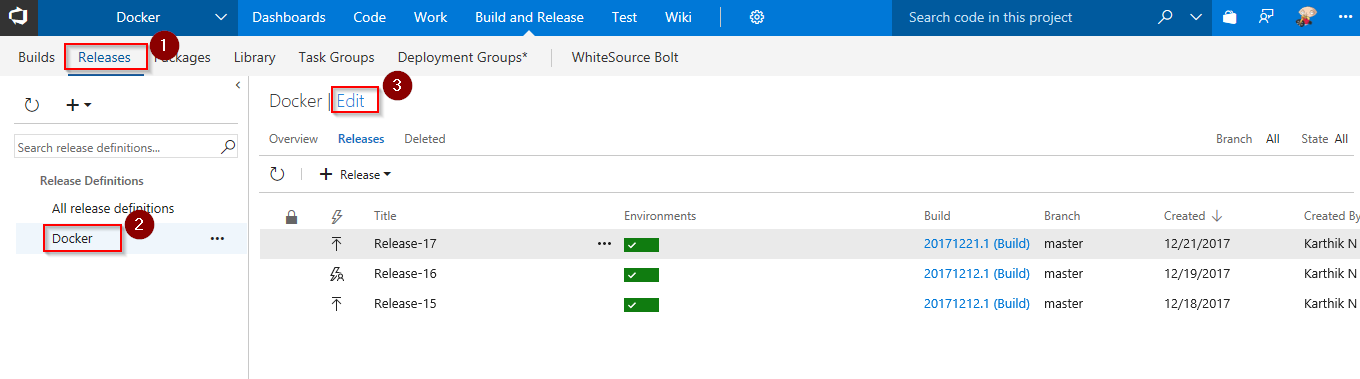
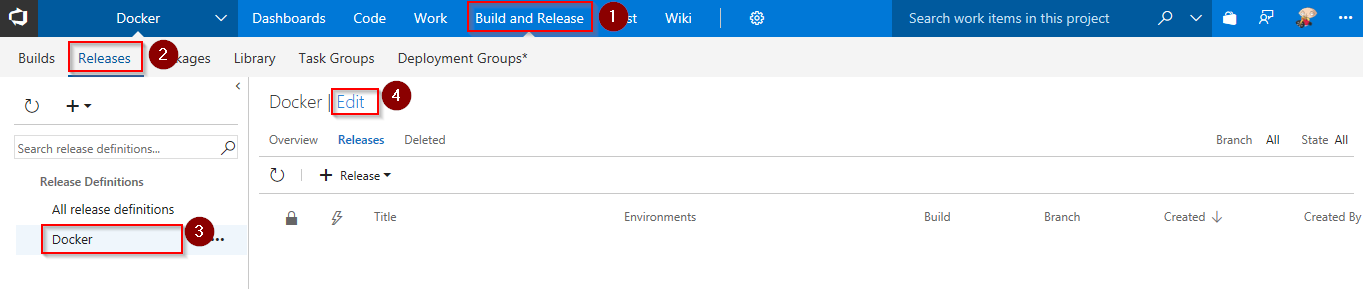
Updated content

diff --git a/docker/readme.md b/docker/readme.md
@@ -125,11 +125,28 @@ Since the connections are not established during project provisioning, we will m
 
  >Note : You will encounter an error - ***TFS.WebApi.Exception: Page not found*** for Azure tasks in the build/ release definition. This is due to a recent change in the VSTS Release Management API. While we are working on updating VSTS Demo Generator to resolve this issue, you can fix this by typing a random text in the Azure Subscription field and click the **Refresh** icon next to it. Once the field is refreshed, you can select the endpoint from the drop down.
 
-1. Go to **Builds** under **Build and Release** tab, **Edit** the build definition **Docker**.
+1. Go to **Releases** under **Build & Release** tab, **Edit** the release definition **Docker** and select **Tasks**.
+
+   <img src="images/release.png">
+   <br/>
+   <br/>
+   <img src="images/release_tasks.png">
+
+2. Update **Azure Subscription** from the dropdown. 
+
+    <img src="images/update_dbtask.png">
+
+3. Click on **Variables** section, update **ACR** and **SQLserver** with the details noted earlier while setting up the environment. Click **Save**. 
+
+    <img src="images/update_rdvariables.png">
+
+    >Note: **Database Name** is set to **mhcdb**, **Server Admin Login** is **sqladmin** and **Password** is **P2ssw0rd1234**.
+
+4. Go to **Builds** under **Build and Release** tab, **Edit** the build definition **Docker**.
 
    <img src="images/build.png">
 
-2. Click on **Process** section, select appropriate contents from dropdown under **Azure subscription** and **Azure Container Registry**. (use up down arrow to choose Azure Container Registry for the first time)
+5. Click on **Process** section, select appropriate contents from dropdown under **Azure subscription** and **Azure Container Registry**. (use up down arrow to choose Azure Container Registry for the first time)
 
    <img src="images/updateprocessbd.png">
 
@@ -168,36 +185,18 @@ Since the connections are not established during project provisioning, we will m
       <td> used to share the build artifacts </td>
    </tr>
    </table>
-3. Click **Save**.
 
-   <img src="images/savebd.png">
+6. Click **Save & queue**.
 
-4. Go to **Releases** under **Build & Release** tab, **Edit** the release definition **Docker** and select **Tasks**.
+   <img src="images/queuebd.png">
 
-   <img src="images/release.png">
-   <br/>
-   <br/>
-   <img src="images/release_tasks.png">
+7. Queue a build by clicking **Save & queue** in the pop-up window.
 
-5. Update **Azure Subscription** from the dropdown. 
+    <img src="images/queuebd2.png">
 
-    <img src="images/update_dbtask.png">
-
-6. Click on **Variables** section, update **ACR** and **SQLserver** with the details noted earlier while setting up the environment. Click **Save**. 
-
-    <img src="images/update_rdvariables.png">
-
-    >Note: **Database Name** is set to **mhcdb**, **Server Admin Login** is **sqladmin** and **Password** is **P2ssw0rd1234**.
-
-7. Click on **Builds** tab and then click on build definition **Docker**. 
-
-    <img src="images/selectbd.png">
-
-8. Queue a build by clicking **Queue new build**. Click on **Queue** in the pop-up window.
-
-    <img src="images/queuebuild.png">
-
-    The build will copy the dacpac to artifacts folder, which will be used in release for deploying this dacpac to database you created earlier. After this step is complete, the database schema will be deployed to SQL Database **mhcdb**.
+    The build will copy the dacpac to artifacts folder, which will be used in release for deploying this dacpac to database you created earlier. 
+    
+8. Go to **Releases** under **Build & Release** tab. Click on release definition **Docker** and double click on **Release-1**. After this release is complete, the database schema will be deployed to SQL Database **mhcdb**.
 
     <img src="images/dacpac_deployment.png">
 
@@ -254,7 +253,7 @@ In this excercise, we will enable the continuous integration trigger to create a
 
 1. Go to **Builds** under **Build and Release** tab, **Edit** the build definition **Docker**.
 
-   <img src="images/build.png">
+   <img src="images/build2.png">
 
 2. Right click on each task **Run Services**, **Build Services**, **Push Services** and **Lock Services** one by one (or use Ctrl+Click to select multiple tasks, and then right click). Select **Enable Selected Task(s)** to enable all of these tasks. Disable **Copy Files** and **Publish Artifact** tasks by selecting **Disable Selected Task(s)** after right clicking on each of them.
 
